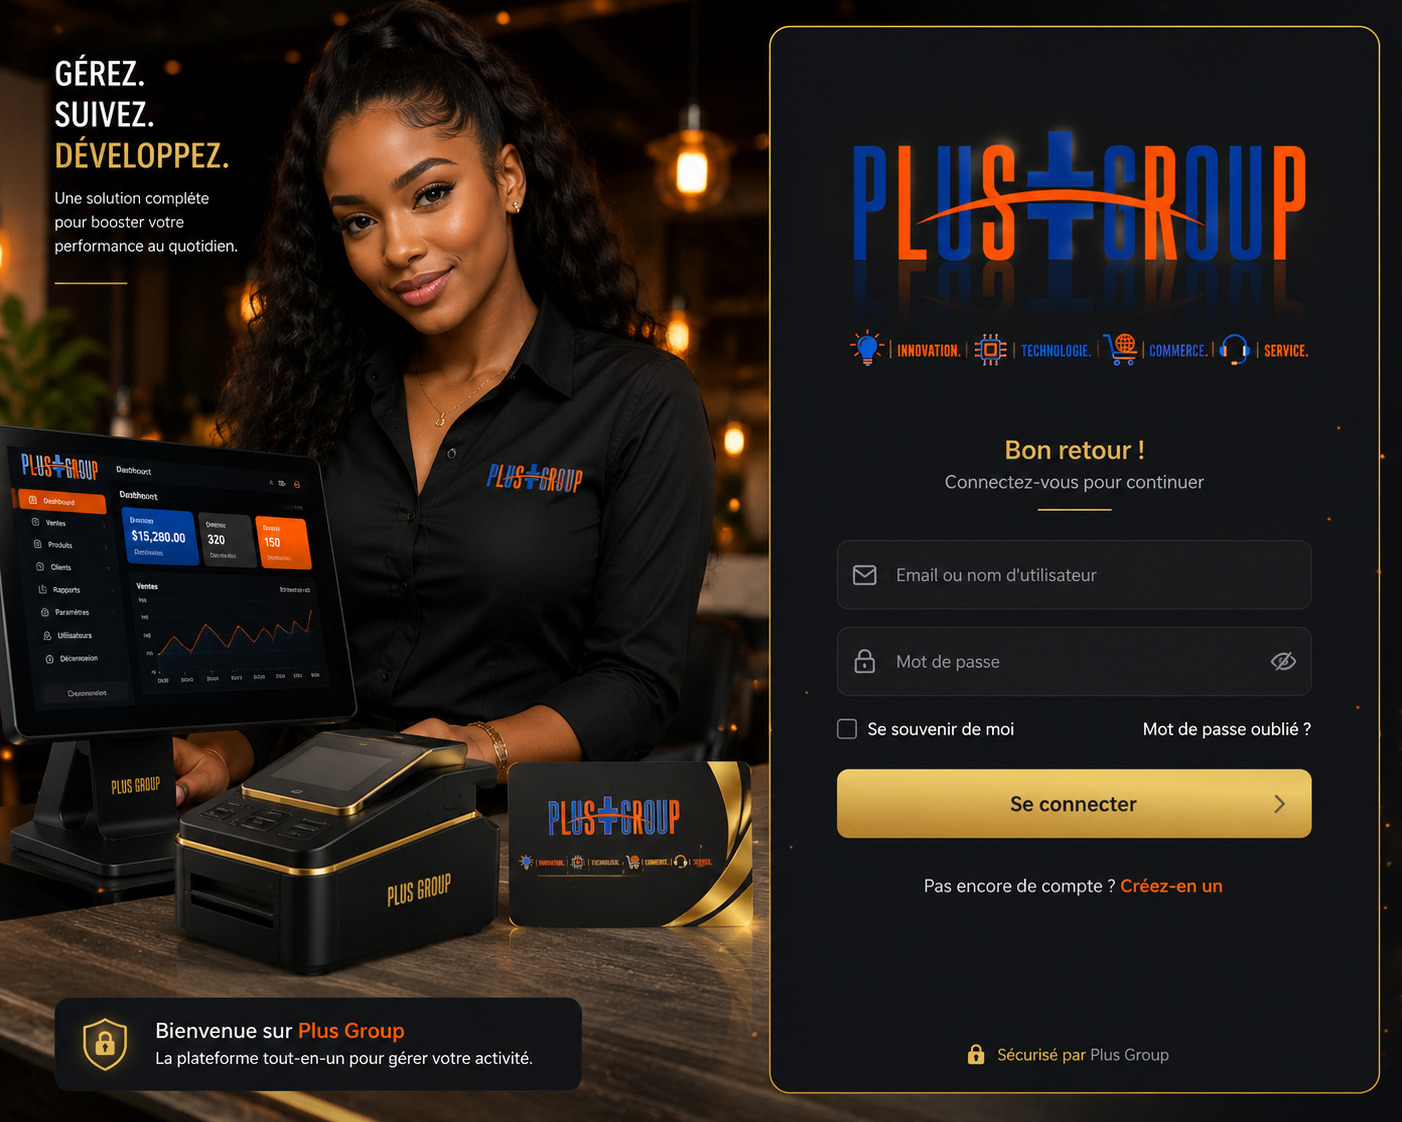
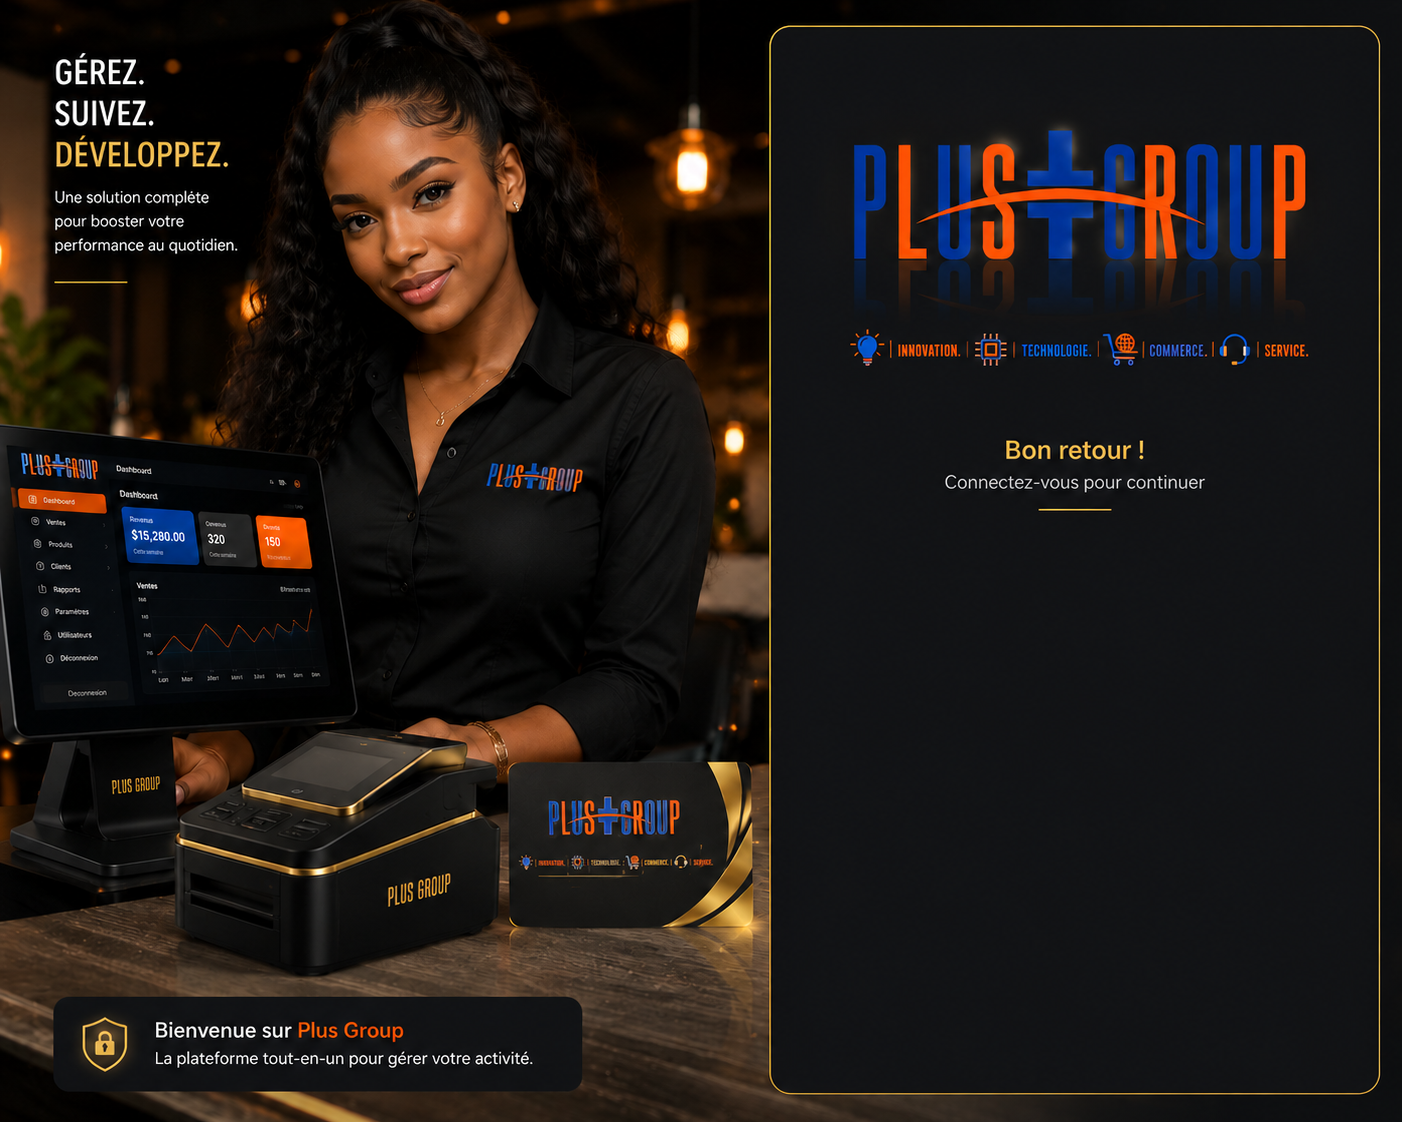
style(login): imaj mokèt ak espas vid, fom konplè ak lejand nan espas la

diff --git a/frontend/src/pages/auth/LoginPage.jsx b/frontend/src/pages/auth/LoginPage.jsx
@@ -271,89 +271,123 @@ export default function LoginPage() {
 
       {mode === 'login' ? (
         <>
-          {/* ═══ VÈSYON DESKTOP — imaj antye + 3 chan fòm reyèl (slug, imèl, modpas) toujou vizib ═══ */}
+          {/* ═══ VÈSYON DESKTOP — imaj ak espas vid, fòm konplè ak lejand ═══ */}
           <div className="pg-bg-desktop" style={{ position:'relative', width:'100%', maxWidth:1402, margin:'0 auto' }}>
             <img src={bgDesktop} alt="Plus Group" style={{ width:'100%', height:'auto', display:'block' }} draggable={false}/>
             <LangSwitcher top={16} right={16}/>
             <form onSubmit={handleSubmit(onSubmit)} style={{ position:'absolute', inset:0 }}>
-              <Building2 size={15} style={{ position:'absolute', left:'61%', top:'49.1%', transform:'translateY(-50%)', color:'#E8C468', pointerEvents:'none', zIndex:1 }}/>
-              <input type="text" placeholder={tx.slug}
+              <label style={{ position:'absolute', left:'59.8%', top:'48.3%', color:'rgba(255,255,255,0.6)', fontSize:11, fontWeight:700, letterSpacing:'0.04em' }}>{tx.slug.toUpperCase()}</label>
+              <Building2 size={15} style={{ position:'absolute', left:'61%', top:'53.3%', transform:'translateY(-50%)', color:'#E8C468', pointerEvents:'none', zIndex:1 }}/>
+              <input type="text" placeholder="plus-store"
                 {...register('slug', { required: tx.slugRequired })}
-                style={{ ...ghostInp, left:'59.8%', top:'47.3%', width:'33.6%', height:'3.6%', fontSize:13, paddingLeft:36 }}
+                style={{ ...ghostInp, left:'59.8%', top:'51%', width:'33%', height:'4.5%', fontSize:13.5, paddingLeft:36 }}
                 onFocus={ghostFocus} onBlur={ghostBlur}
               />
-              <Mail size={15} style={{ position:'absolute', left:'61%', top:'54.2%', transform:'translateY(-50%)', color:'#E8C468', pointerEvents:'none', zIndex:1 }}/>
-              <input type="email" placeholder={tx.email}
+              {errors.slug && <p style={{ position:'absolute', left:'59.8%', top:'55.7%', color:'#FFB347', fontSize:10, margin:0 }}>{errors.slug.message}</p>}
+
+              <label style={{ position:'absolute', left:'59.8%', top:'58.3%', color:'rgba(255,255,255,0.6)', fontSize:11, fontWeight:700, letterSpacing:'0.04em' }}>{tx.email.toUpperCase()}</label>
+              <Mail size={15} style={{ position:'absolute', left:'61%', top:'63.3%', transform:'translateY(-50%)', color:'#E8C468', pointerEvents:'none', zIndex:1 }}/>
+              <input type="email" placeholder="ou@antrepriz.ht"
                 {...register('email', { required: tx.emailRequired, pattern:{ value:/^\S+@\S+$/, message: tx.emailInvalid } })}
-                style={{ ...ghostInp, left:'59.8%', top:'52.4%', width:'33.6%', height:'3.6%', fontSize:13, paddingLeft:36 }}
+                style={{ ...ghostInp, left:'59.8%', top:'61%', width:'33%', height:'4.5%', fontSize:13.5, paddingLeft:36 }}
                 onFocus={ghostFocus} onBlur={ghostBlur}
               />
+
+              <label style={{ position:'absolute', left:'59.8%', top:'68.3%', color:'rgba(255,255,255,0.6)', fontSize:11, fontWeight:700, letterSpacing:'0.04em' }}>{tx.password.toUpperCase()}</label>
               <div style={{ position:'relative' }}>
-                <Lock size={15} style={{ position:'absolute', left:'61%', top:'59.3%', transform:'translateY(-50%)', color:'#E8C468', pointerEvents:'none', zIndex:1 }}/>
-                <input type={show ? 'text' : 'password'} placeholder={tx.password}
+                <Lock size={15} style={{ position:'absolute', left:'61%', top:'73.3%', transform:'translateY(-50%)', color:'#E8C468', pointerEvents:'none', zIndex:1 }}/>
+                <input type={show ? 'text' : 'password'} placeholder="••••••••"
                   {...register('password', { required: tx.passRequired })}
-                  style={{ ...ghostInp, left:'59.8%', top:'57.5%', width:'33.6%', height:'3.6%', fontSize:13, paddingLeft:36, paddingRight:34 }}
+                  style={{ ...ghostInp, left:'59.8%', top:'71%', width:'33%', height:'4.5%', fontSize:13.5, paddingLeft:36, paddingRight:34 }}
                   onFocus={ghostFocus} onBlur={ghostBlur}
                 />
-                <button type="button" onClick={() => setShow(!show)} style={{ position:'absolute', left:'89.7%', top:'59.3%', transform:'translateY(-50%)', background:'none', border:'none', cursor:'pointer', color:'rgba(255,255,255,0.5)', padding:0, zIndex:1, display:'flex' }}>
+                <button type="button" onClick={() => setShow(!show)} style={{ position:'absolute', left:'89%', top:'73.3%', transform:'translateY(-50%)', background:'none', border:'none', cursor:'pointer', color:'rgba(255,255,255,0.5)', padding:0, zIndex:1, display:'flex' }}>
                   {show ? <EyeOff size={15}/> : <Eye size={15}/>}
                 </button>
               </div>
-              <label style={{ position:'absolute', left:'59.7%', top:'64.1%', width:'1.6%', height:'1.8%', cursor:'pointer' }}>
-                <input type="checkbox" style={{ width:'100%', height:'100%', margin:0, accentColor:'#E8C468', cursor:'pointer', opacity:0.85 }}/>
+
+              <label style={{ position:'absolute', left:'59.8%', top:'77.5%', display:'flex', alignItems:'center', gap:6, color:'rgba(255,255,255,0.65)', fontSize:11.5, cursor:'pointer' }}>
+                <input type="checkbox" style={{ width:13, height:13, margin:0, accentColor:'#E8C468', cursor:'pointer' }}/>
+                Sonje mwen
               </label>
-              <button type="button" style={{ position:'absolute', left:'81.6%', top:'63.6%', width:'12%', height:'2.6%', background:'none', border:'none', cursor:'pointer' }} aria-label={tx.forgot}/>
-              {errors.slug && <p style={{ position:'absolute', left:'59.8%', top:'50.9%', color:'#FFB347', fontSize:9.5, margin:0 }}>{errors.slug.message}</p>}
+              <button type="button" style={{ position:'absolute', left:'80%', top:'77.5%', width:'12.5%', background:'none', border:'none', color:'#E8C468', fontSize:11.5, cursor:'pointer', textAlign:'right', padding:0 }}>{tx.forgot}</button>
+
               <button type="submit" disabled={loading} style={{
-                position:'absolute', left:'59.7%', top:'68.9%', width:'33.9%', height:'5.4%',
-                background: loading ? 'rgba(0,0,0,0.25)' : 'transparent', border:'none', cursor: loading ? 'not-allowed' : 'pointer',
-                display:'flex', alignItems:'center', justifyContent:'center',
+                position:'absolute', left:'59.8%', top:'81.5%', width:'33%', height:'6%', borderRadius:10,
+                background: loading ? 'rgba(255,255,255,0.15)' : 'linear-gradient(135deg,#F5D889,#E8A94A)',
+                color: loading ? '#fff' : '#1A1408', border:'none', cursor: loading ? 'not-allowed' : 'pointer',
+                fontWeight:800, fontSize:14, display:'flex', alignItems:'center', justifyContent:'center', gap:8,
+                boxShadow: loading ? 'none' : '0 8px 20px rgba(232,169,74,0.3)',
               }}>
-                {loading && <div style={{ width:16, height:16, border:'2px solid rgba(0,0,0,0.25)', borderTopColor:'#1A1408', borderRadius:'50%', animation:'spin 0.7s linear infinite' }}/>}
+                {loading
+                  ? <div style={{ width:16, height:16, border:'2px solid rgba(0,0,0,0.25)', borderTopColor:'#1A1408', borderRadius:'50%', animation:'spin 0.7s linear infinite' }}/>
+                  : <>{tx.submit}<ChevronRight size={16}/></>
+                }
               </button>
-              <button type="button" onClick={() => setMode('signup')} style={{ position:'absolute', left:'79.5%', top:'77.6%', width:'19%', height:'2.8%', background:'none', border:'none', cursor:'pointer' }} aria-label="Kreye kont"/>
+
+              <p style={{ position:'absolute', left:'59.8%', top:'89.5%', width:'33%', textAlign:'center', color:'rgba(255,255,255,0.5)', fontSize:12, margin:0 }}>
+                Poko gen kont?{' '}
+                <button type="button" onClick={() => setMode('signup')} style={{ background:'none', border:'none', color:'#F5680C', fontWeight:700, fontSize:12, cursor:'pointer', padding:0 }}>Kreye youn</button>
+              </p>
             </form>
           </div>
 
-          {/* ═══ VÈSYON MOBIL — menm apwòch la, koòdone diferan ═══ */}
+          {/* ═══ VÈSYON MOBIL — imaj ak espas vid, fòm konplè ak lejand ═══ */}
           <div className="pg-bg-mobile" style={{ position:'relative', width:'100%', maxWidth:480, margin:'0 auto' }}>
             <img src={bgMobile} alt="Plus Group" style={{ width:'100%', height:'auto', display:'block' }} draggable={false}/>
             <LangSwitcher top={10} right={10} compact/>
             <form onSubmit={handleSubmit(onSubmit)} style={{ position:'absolute', inset:0 }}>
-              <Building2 size={15} style={{ position:'absolute', left:'11.5%', top:'54.9%', transform:'translateY(-50%)', color:'#E8C468', pointerEvents:'none', zIndex:1 }}/>
-              <input type="text" placeholder={tx.slug}
+              <label style={{ position:'absolute', left:'9.1%', top:'56.5%', color:'rgba(255,255,255,0.6)', fontSize:11, fontWeight:700, letterSpacing:'0.04em' }}>{tx.slug.toUpperCase()}</label>
+              <Building2 size={15} style={{ position:'absolute', left:'11.5%', top:'60.7%', transform:'translateY(-50%)', color:'#E8C468', pointerEvents:'none', zIndex:1 }}/>
+              <input type="text" placeholder="plus-store"
                 {...register('slug', { required: tx.slugRequired })}
-                style={{ ...ghostInp, left:'9.1%', top:'53%', width:'81.7%', height:'4.0%', fontSize:13.5, paddingLeft:36 }}
+                style={{ ...ghostInp, left:'9.1%', top:'58.7%', width:'81.7%', height:'4.0%', fontSize:14, paddingLeft:36 }}
                 onFocus={ghostFocus} onBlur={ghostBlur}
               />
-              <Mail size={15} style={{ position:'absolute', left:'11.5%', top:'60.3%', transform:'translateY(-50%)', color:'#E8C468', pointerEvents:'none', zIndex:1 }}/>
-              <input type="email" placeholder={tx.email}
+              {errors.slug && <p style={{ position:'absolute', left:'9.1%', top:'63%', color:'#FFB347', fontSize:10, margin:0 }}>{errors.slug.message}</p>}
+
+              <label style={{ position:'absolute', left:'9.1%', top:'65.5%', color:'rgba(255,255,255,0.6)', fontSize:11, fontWeight:700, letterSpacing:'0.04em' }}>{tx.email.toUpperCase()}</label>
+              <Mail size={15} style={{ position:'absolute', left:'11.5%', top:'69.7%', transform:'translateY(-50%)', color:'#E8C468', pointerEvents:'none', zIndex:1 }}/>
+              <input type="email" placeholder="ou@antrepriz.ht"
                 {...register('email', { required: tx.emailRequired, pattern:{ value:/^\S+@\S+$/, message: tx.emailInvalid } })}
-                style={{ ...ghostInp, left:'9.1%', top:'58.3%', width:'81.7%', height:'4.0%', fontSize:13.5, paddingLeft:36 }}
+                style={{ ...ghostInp, left:'9.1%', top:'67.7%', width:'81.7%', height:'4.0%', fontSize:14, paddingLeft:36 }}
                 onFocus={ghostFocus} onBlur={ghostBlur}
               />
-              <Lock size={15} style={{ position:'absolute', left:'11.5%', top:'65.6%', transform:'translateY(-50%)', color:'#E8C468', pointerEvents:'none', zIndex:1 }}/>
-              <input type={show ? 'text' : 'password'} placeholder={tx.password}
+
+              <label style={{ position:'absolute', left:'9.1%', top:'74.5%', color:'rgba(255,255,255,0.6)', fontSize:11, fontWeight:700, letterSpacing:'0.04em' }}>{tx.password.toUpperCase()}</label>
+              <Lock size={15} style={{ position:'absolute', left:'11.5%', top:'78.7%', transform:'translateY(-50%)', color:'#E8C468', pointerEvents:'none', zIndex:1 }}/>
+              <input type={show ? 'text' : 'password'} placeholder="••••••••"
                 {...register('password', { required: tx.passRequired })}
-                style={{ ...ghostInp, left:'9.1%', top:'63.6%', width:'81.7%', height:'4.0%', fontSize:13.5, paddingLeft:36, paddingRight:34 }}
+                style={{ ...ghostInp, left:'9.1%', top:'76.7%', width:'81.7%', height:'4.0%', fontSize:14, paddingLeft:36, paddingRight:34 }}
                 onFocus={ghostFocus} onBlur={ghostBlur}
               />
-              <button type="button" onClick={() => setShow(!show)} style={{ position:'absolute', left:'88%', top:'65.6%', transform:'translateY(-50%)', background:'none', border:'none', cursor:'pointer', color:'rgba(255,255,255,0.5)', padding:0, zIndex:1, display:'flex' }}>
+              <button type="button" onClick={() => setShow(!show)} style={{ position:'absolute', left:'88%', top:'78.7%', transform:'translateY(-50%)', background:'none', border:'none', cursor:'pointer', color:'rgba(255,255,255,0.5)', padding:0, zIndex:1, display:'flex' }}>
                 {show ? <EyeOff size={15}/> : <Eye size={15}/>}
               </button>
-              {errors.slug && <p style={{ position:'absolute', left:'9.1%', top:'57.2%', color:'#FFB347', fontSize:9, margin:0 }}>{errors.slug.message}</p>}
-              <label style={{ position:'absolute', left:'9.1%', top:'74.2%', width:'5%', height:'1.7%', cursor:'pointer' }}>
-                <input type="checkbox" style={{ width:'100%', height:'100%', margin:0, accentColor:'#E8C468', cursor:'pointer', opacity:0.85 }}/>
+
+              <label style={{ position:'absolute', left:'9.1%', top:'83.3%', display:'flex', alignItems:'center', gap:6, color:'rgba(255,255,255,0.65)', fontSize:12, cursor:'pointer' }}>
+                <input type="checkbox" style={{ width:14, height:14, margin:0, accentColor:'#E8C468', cursor:'pointer' }}/>
+                Sonje mwen
               </label>
-              <button type="button" style={{ position:'absolute', left:'62.2%', top:'73.6%', width:'28.6%', height:'2.6%', background:'none', border:'none', cursor:'pointer' }} aria-label={tx.forgot}/>
+              <button type="button" style={{ position:'absolute', left:'62%', top:'83.3%', width:'29%', background:'none', border:'none', color:'#E8C468', fontSize:12, cursor:'pointer', textAlign:'right', padding:0 }}>{tx.forgot}</button>
+
               <button type="submit" disabled={loading} style={{
-                position:'absolute', left:'9.1%', top:'79.1%', width:'81.7%', height:'5.0%',
-                background: loading ? 'rgba(0,0,0,0.25)' : 'transparent', border:'none', cursor: loading ? 'not-allowed' : 'pointer',
-                display:'flex', alignItems:'center', justifyContent:'center',
+                position:'absolute', left:'9.1%', top:'87%', width:'81.7%', height:'5.5%', borderRadius:10,
+                background: loading ? 'rgba(255,255,255,0.15)' : 'linear-gradient(135deg,#F5D889,#E8A94A)',
+                color: loading ? '#fff' : '#1A1408', border:'none', cursor: loading ? 'not-allowed' : 'pointer',
+                fontWeight:800, fontSize:15, display:'flex', alignItems:'center', justifyContent:'center', gap:8,
+                boxShadow: loading ? 'none' : '0 8px 20px rgba(232,169,74,0.3)',
               }}>
-                {loading && <div style={{ width:16, height:16, border:'2px solid rgba(0,0,0,0.25)', borderTopColor:'#1A1408', borderRadius:'50%', animation:'spin 0.7s linear infinite' }}/>}
+                {loading
+                  ? <div style={{ width:18, height:18, border:'2px solid rgba(0,0,0,0.25)', borderTopColor:'#1A1408', borderRadius:'50%', animation:'spin 0.7s linear infinite' }}/>
+                  : <>{tx.submit}<ChevronRight size={17}/></>
+                }
               </button>
-              <button type="button" onClick={() => setMode('signup')} style={{ position:'absolute', left:'57.5%', top:'87.0%', width:'31%', height:'2.5%', background:'none', border:'none', cursor:'pointer' }} aria-label="Kreye kont"/>
+
+              <p style={{ position:'absolute', left:'9.1%', top:'93.5%', width:'81.7%', textAlign:'center', color:'rgba(255,255,255,0.5)', fontSize:13, margin:0 }}>
+                Poko gen kont?{' '}
+                <button type="button" onClick={() => setMode('signup')} style={{ background:'none', border:'none', color:'#F5680C', fontWeight:700, fontSize:13, cursor:'pointer', padding:0 }}>Kreye youn</button>
+              </p>
             </form>
           </div>
         </>
